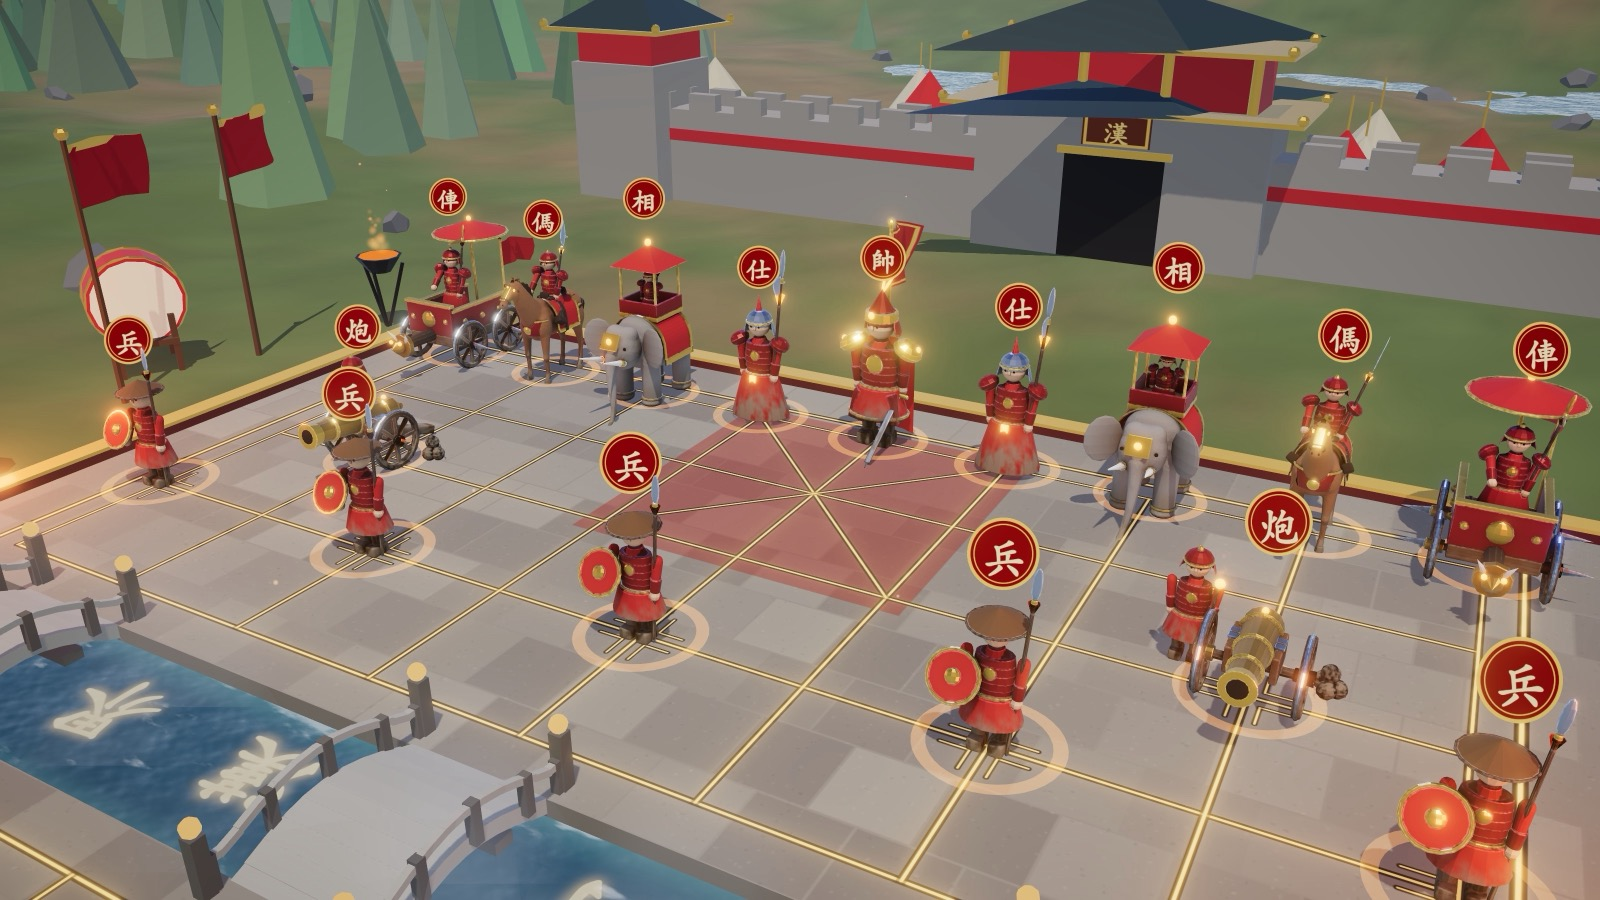
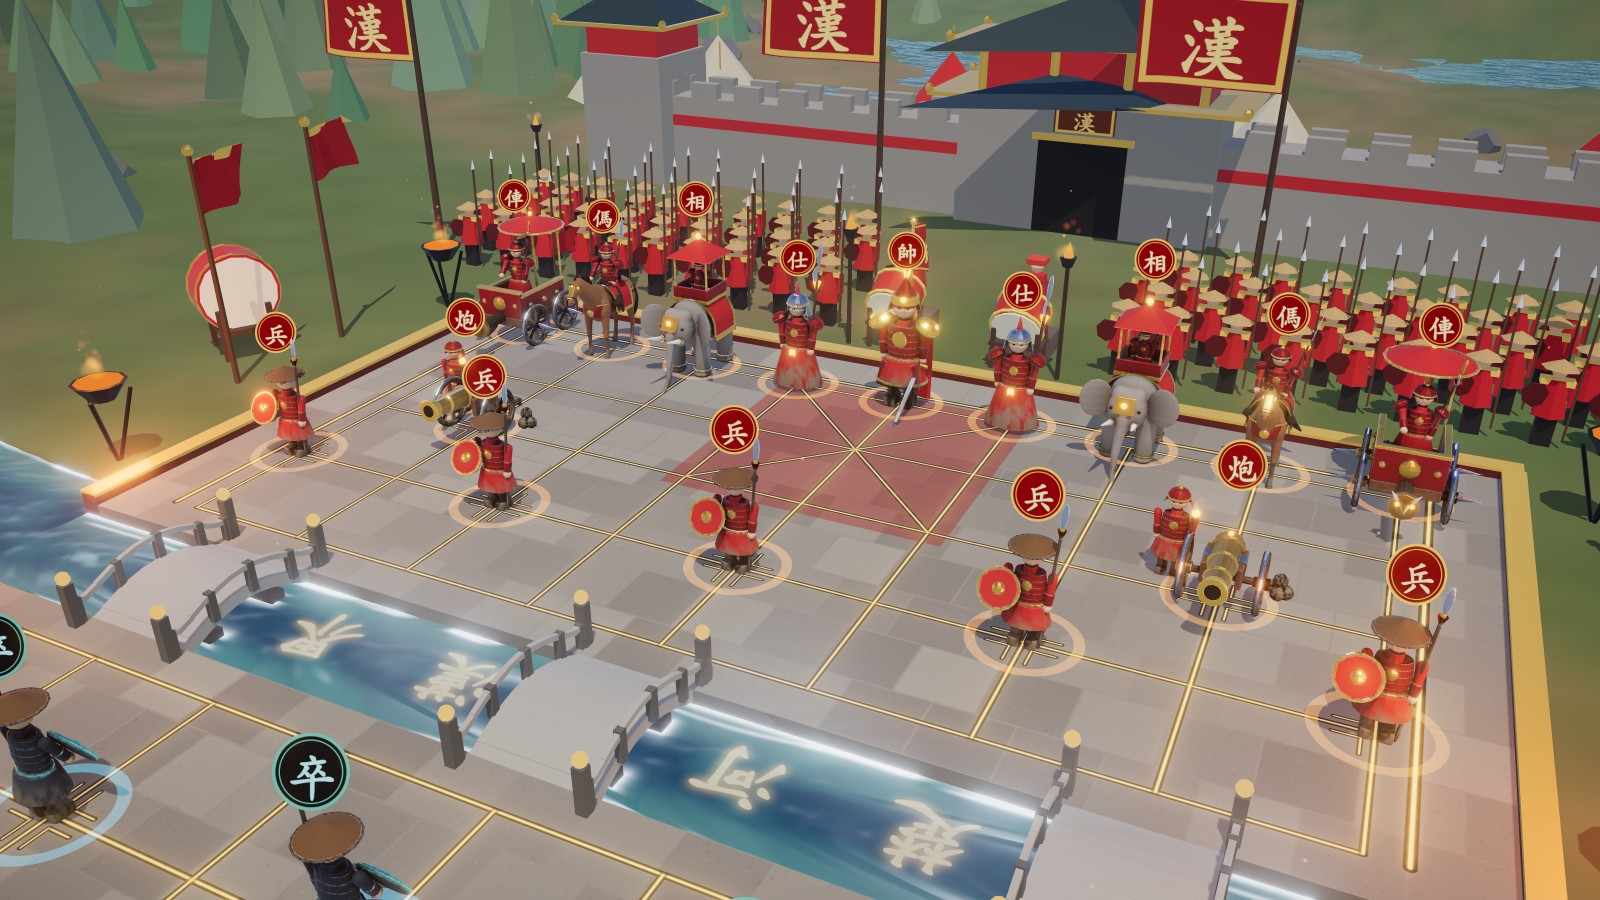
README: new gallery with the river and the reserves; grouped highlights
Re-shoot the gallery on the current build, group the highlights into
the battle, the game, and replay and share, order the file table by
layer and trim the debug hook listing. Ignore agent worktrees.

diff --git a/README.md b/README.md
@@ -31,12 +31,12 @@ the seven unit models are generated by a Blender script that ships in this repos
 
 <table>
   <tr>
-    <td width="50%"><img src="docs/shots/army-red.jpg" alt="The red army drawn up at noon"></td>
-    <td width="50%"><img src="docs/shots/army-black.jpg" alt="The black army drawn up at noon"></td>
+    <td width="50%"><img src="docs/shots/army-red.jpg" alt="The red army and its reserves before the gate"></td>
+    <td width="50%"><img src="docs/shots/army-black.jpg" alt="The black army and its reserves before the gate"></td>
   </tr>
   <tr>
-    <td width="50%"><img src="docs/shots/crush.jpg" alt="A war elephant comes down on a chariot"></td>
-    <td width="50%"><img src="docs/shots/fallen.jpg" alt="A soldier falls: a pillar of light and his glyph rising"></td>
+    <td width="50%"><img src="docs/shots/crush.jpg" alt="A war elephant rears over a chariot"></td>
+    <td width="50%"><img src="docs/shots/ford.jpg" alt="A chariot fords the river, axle-deep"></td>
   </tr>
   <tr>
     <td colspan="2"><img src="docs/shots/storm.jpg" alt="A check brings storm clouds, lightning and rain"></td>
@@ -45,53 +45,58 @@ the seven unit models are generated by a Blender script that ships in this repos
 
 ## Highlights
 
-- **Full rules.** Hobbled horses, blocked elephant eyes, cannon screens, palace limits, the river, the
-  flying general, no moving into check. Checkmate and stalemate both lose. Threefold repetition is a
-  draw unless one side repeats only by checking (that side loses); 120 plies without a capture is a
-  draw. Undo, restart, a move list in traditional notation and captured-piece trays.
-- **Three modes.** Two players, red against the computer, or spectate. The AI is an iterative-deepening
-  alpha-beta search with a transposition table, quiescence, killer and history ordering, running in a
-  Web Worker so the picture never stalls while it thinks.
-- **Play a friend online.** Peer to peer over WebRTC, with no game server: send an invite link, paste
-  back the reply code, play. Each side checks every move the other sends against its own rules
-  engine. Draw offers, take-backs, resignation, rematches with colours swapped, and a fresh invite
-  resumes a game after a dropped connection.
-- **Openings and styles.** A small book of mainstream openings (中炮 against 屏风马, 顺炮, 列炮 and
-  反宫马; 飞相局, 仙人指路, 起马局, 过宫炮), mirrored, answered instantly and announced by name.
-  Each computer side plays 均衡, 猛攻 or 稳健: its own evaluation terms, draw contempt and taste in
-  openings. Spectator games pair two styles at random.
-- **Commentary.** A short line on notable moments, judged from the search: a sacrifice it likes,
-  a turn of fortune, a clear edge, a level trade, a mate found (三步之内，胜负已分).
+### The battle
+
 - **Seven troop types.** General, guard, war elephant, cavalry, war wagon, cannon and infantry, each
   with its own way of moving, bracing, attacking and dying.
-- **Duels.** Every attacker has three techniques, chosen by whether it is fighting foot soldiers, beasts
-  or machines (21 in total). Each of the 36 legal attacker/victim pairings has its own title card.
-- **Capture cinematics.** Letterbox, close-up camera that follows the victim, hit-stop, bullet-time
-  orbit, an impact frame with speed lines, screen shake and tilt-shift blur.
-- **A battlefield that remembers.** Craters, soot, cracks, hoof prints and wheel ruts accumulate;
-  wreckage stays where it lands, weapons stick in the ground, blast sites smoulder, and the armies get
-  dustier as the game goes on. Undo rolls all of it back.
+- **Duels.** Every attacker has three techniques, chosen by whether it is fighting foot soldiers,
+  beasts or machines (21 in total). Each of the 36 attacker and victim pairings has its own title card.
+- **Capture cinematics.** Letterbox, a close-up camera that follows the victim, hit-stop, a
+  bullet-time orbit, an impact frame with speed lines, screen shake and tilt-shift blur.
+- **A battlefield that remembers.** Craters, soot, cracks, hoof prints and wheel ruts accumulate.
+  Wreckage stays where it lands, blast sites smoulder, and the armies get dustier as the game goes
+  on. Undo rolls all of it back.
 - **A river you can wade.** 楚河漢界 is real water: it flows, darkens in the deep channel, foams at
-  the banks and round the bridge piers, glitters at noon and turns choppy in a storm. Troops crossing
-  off the bridges wade in, slowed and splashing, soldiers thigh-deep and horses to the belly, and
-  bodies thrown into it go under with a splash.
-- **Armies that watch.** Behind each back rank wait the reserves: ranks of spearmen, war drums and
-  great banners. They cheer a capture with a drum roll, beat the drums through a check and erupt
-  at the mate. Morale follows the material on the board: a losing army thins, stoops and lowers its
-  banners while its torches gutter; at the end it kneels or breaks for the gate.
-- **Weather driven by the game.** Dawn mist at the opening, noon in the middlegame, a red dusk in the
-  endgame. A check brings storm clouds and lightning; the end of the game brings rain and wet stone.
-- **Replay and share.** Every game is a compact record (about one character per move). Copy it as
-  a link or as text; opening the link replays the game. Step, scrub, or play it back at 1×, 2× or
-  4×, duels included.
-- **Highlight reel.** Every move is scored (captures by value, checks, exchanges, sacrifices, king
-  hunts, the mate) and the best moments are cut into a reel of about a minute, each with a title
-  card and the full duel camera. Export it as an MP4 or WebM video, sound included.
-- **Classic games, restaged.** Seven lines from the Ming and Qing manuals 橘中秘 (1632) and
-  梅花譜, among them 棄馬十三著, play themselves with each move named as it lands. Each is the
-  manual's text in the traditional notation, read by a parser for it, with its sources cited.
+  the banks, glitters at noon and turns choppy in a storm. Troops crossing off the bridges wade in,
+  slowed and splashing.
+- **Armies that watch.** Behind each back rank wait the reserves: spearmen, war drums and great
+  banners. They cheer a capture, drum through a check and erupt at the mate. A losing army thins,
+  stoops and lowers its banners.
+- **Weather driven by the game.** Dawn mist at the opening, noon in the middlegame, a red dusk in
+  the endgame. A check brings storm clouds and lightning; the end brings rain and wet stone.
 - **Sound without samples.** Every effect is synthesised with WebAudio, and an adaptive score of war
   drums, plucked zither and a low ostinato layers up with the tension.
+
+### The game
+
+- **Full rules.** Hobbled horses, blocked elephant eyes, cannon screens, palace limits, the river,
+  the flying general, no moving into check. Checkmate and stalemate both lose. Threefold repetition
+  is a draw unless one side repeats only by checking (that side loses); 120 plies without a capture
+  is a draw.
+- **Three modes.** Two players, red against the computer, or spectate. The AI is an
+  iterative-deepening alpha-beta search with a transposition table, quiescence, and killer and
+  history ordering, running in a Web Worker so the picture never stalls while it thinks.
+- **Openings and styles.** A small book of mainstream openings, answered instantly and announced by
+  name. Each computer side plays 均衡, 猛攻 or 稳健, with its own evaluation, draw contempt and
+  taste in openings.
+- **Commentary.** A short line on notable moments, judged from the search: a sacrifice it likes, a
+  turn of fortune, a mate found (三步之内，胜负已分).
+- **Play a friend online.** Peer to peer over WebRTC, with no game server: send an invite link,
+  paste back the reply code, play. Each side checks every move the other sends against its own
+  rules engine.
+- **Phones too.** Touch gestures, layouts for portrait and landscape, and three quality tiers
+  picked from the device.
+
+### Replay and share
+
+- **Records and links.** Every game is a compact record, about one character per move. Copy it as a
+  link or as text; opening the link replays the game. Step, scrub, or play it back at 1×, 2× or 4×.
+- **Highlight reel.** Every move is scored and the best moments are cut into a reel of about a
+  minute, each with a title card and the full duel camera. Export it as an MP4 or WebM video, sound
+  included.
+- **Classic games, restaged.** Seven lines from the Ming and Qing manuals 橘中秘 (1632) and 梅花譜,
+  among them 棄馬十三著, play themselves with each move named as it lands. Their sources are cited
+  in the code.
 
 ## Run it
 
@@ -158,7 +163,7 @@ In a game 悔棋 asks the opponent to take back your last move and 新局 opens 
 either player can open the card and 续弈此局 to invite the other back into the same position.
 Replay, the reel and the classics are off during an online game; leave it to use them.
 
-Honest limits: the peers connect directly, so each sees the other's IP address, and a public STUN
+Limits: the peers connect directly, so each sees the other's IP address, and a public STUN
 server (Google's and Cloudflare's) is asked for your public address. There is no TURN
 relay, so two players behind symmetric NATs (some mobile and office networks) cannot connect.
 
@@ -167,35 +172,32 @@ relay, so two players behind symmetric NATs (some mobile and office networks) ca
 | File | Purpose |
 | --- | --- |
 | `src/engine.ts` | Pure rules engine, no rendering dependencies |
+| `src/ai.ts`, `src/ai.worker.ts` | Search engine and playing styles; its worker entry |
+| `src/book.ts` | Opening book, compiled to position hashes, and opening names |
+| `src/commentary.ts` | When an AI move is worth a remark, and the lines |
 | `src/record.ts` | Game records: compact link form, readable text, validation |
-| `src/netgame.ts` | Online protocol: validation, resync, offers, rematch (pure, tested) |
-| `src/sdp.ts` | Invite and reply codes: SDP packed to ~110 URL-safe characters |
-| `src/net.ts` | WebRTC transport: one data channel, manual signalling, STUN |
-| `src/online.ts` | The 联机 card, connection chip, prompts, session lifecycle |
 | `src/notation.ts` | Traditional move notation (炮二平五) read back into moves |
 | `src/classics.ts` | Classic games from 橘中秘 and 梅花譜, with their sources |
 | `src/reel.ts` | Move scoring and clip selection for the highlight reel |
 | `src/capture.ts` | Canvas and audio recording of the reel, with burned-in titles |
-| `src/ai.ts`, `src/ai.worker.ts` | Search engine and playing styles; its worker entry |
-| `src/book.ts` | Opening book, compiled to position hashes, and opening names |
-| `src/commentary.ts` | When an AI move is worth a remark, and the lines |
-| `tools/match.ts` | Style against balanced, self-play match (slow, not in `npm test`) |
+| `src/netgame.ts` | Online protocol: validation, resync, offers, rematch |
+| `src/sdp.ts` | Invite and reply codes: SDP packed to ~110 URL-safe characters |
+| `src/net.ts`, `src/online.ts` | WebRTC transport; the 联机 card and session lifecycle |
 | `src/core.ts` | Game clock, tweens, easing, board ↔ world mapping |
-| `src/world.ts` | Terrain, water, sky, board terraces, props, lighting, weather |
-| `src/units.ts` | Unit wrapper, procedural fallback models, bindings for authored models |
-| `src/models.ts` | Loader and skeleton rebuild for authored models |
-| `src/choreo.ts` | Move / brace / attack / death choreography and the duel title table |
+| `src/world.ts` | Terrain, sky, board terraces, props, lighting, weather |
 | `src/river.ts` | Water shader, ripple rings, wading splashes |
 | `src/armies.ts`, `src/morale.ts` | Reserves, drums, banners; morale from material |
-| `src/fx.ts` | Particles, shockwaves, slashes, light pillars, debris |
-| `src/scars.ts` | Persistent decals, wreckage and smouldering craters |
-| `src/camera.ts` | Camera director: orbit, auto-rotate, cinematics, spectator mode, shake |
+| `src/units.ts`, `src/models.ts` | Units; loader and skeleton rebuild for authored models |
+| `src/choreo.ts` | Move, brace, attack and death choreography; the duel title table |
+| `src/fx.ts`, `src/scars.ts` | Particles, debris, light pillars; persistent battlefield damage |
+| `src/camera.ts` | Camera director: orbit, touch, cinematics, spectator mode |
 | `src/audio.ts`, `src/music.ts` | Synthesised effects, rain and thunder; adaptive score |
+| `src/quality.ts` | Quality tiers, first-load choice, switching |
 | `src/hud.ts`, `src/style.css` | DOM overlay |
 | `src/main.ts` | Renderer, post-processing, input, game flow |
-| `src/quality.ts` | Quality tiers, first-load choice, switching |
 | `tools/blender/build.py` | Generates the seven unit models |
 | `tools/blender/lod.mjs` | Decimated `_mid` / `_lo` variants for the lower tiers |
+| `tools/match.ts` | Self-play match between styles (slow, not in `npm test`) |
 
 The post chain is MSAA → bloom → a grading pass (tilt-shift, chromatic fringe, impact frame,
 desaturation, vignette) → ACES tone mapping.
@@ -206,32 +208,21 @@ For scripted testing, `window.__game` exposes a small debug hook:
 __game.load(fen)                   // set up a position
 __game.move('h2e2')                // resolves when the animation ends
 __game.setMode('watch')            // 'pvp' | 'pve' | 'watch'
-__game.style('b', 'aggressive')    // 'balanced' | 'aggressive' | 'solid'; style() reads both
-__game.book()                      // book moves here: { move, weight, names }
-__game.state.ai                    // last AI move: { score, depth, book, opening, ... }
+__game.style('b', 'aggressive')    // 'balanced' | 'aggressive' | 'solid'
 __game.weather(time, storm, rain)  // pin the weather; no arguments releases it
-__game.morale()                    // { r, b } in 0..1, from the material on the board
-__game.cheer('r')                  // make one side's reserves cheer
-__game.armies                      // the reserves module, for inspection
 __game.record()                    // compact record of the game, as in #g= links
 __game.replay(text?)               // replay a record, or the current game
-__game.replayTo(ply)               // jump to a ply; replayExit() leaves
-__game.classics()                  // titles of the classic games
-__game.classic(i)                  // replay one: title card, autoplay, captions
-__game.highlights()                // clips of the game: { ply, start, end, reason, ... }
-__game.reel()                      // play the highlight reel; reelExit() leaves
+__game.classic(i)                  // replay a classic game
+__game.reel()                      // play the highlight reel
 await __game.reelExport()          // record it: { size, mime, durationMs, ... }
-__game.fine(false)                 // switch to the code-built models
-await __game.quality('low')        // 'low' | 'mid' | 'high'; no argument returns the tier
+await __game.quality('low')        // 'low' | 'mid' | 'high'
 await __game.net.host('r')         // open a room: resolves to the invite link
-await __game.net.join(invite)      // resolves to the reply code
-await __game.net.accept(reply)     // the host connects
-__game.net.state                   // { phase, role, side, connected, latency, ply, ... }
-__game.net.send(obj)               // raw message to the peer (for abuse tests)
-__game.net.leave()                 // close the connection and leave net mode
 __game.manual = true               // stop the frame loop, then step it yourself
 await __game.advance(seconds)
 ```
+
+The rest of the hook (`state`, `book`, `morale`, `highlights`, `net.join`, `net.accept` and more)
+is at the bottom of `src/main.ts`.
 
 ### Unit models
 
@@ -267,6 +258,8 @@ about 335k for a full board.
 - Spectator games are capped at 220 plies so two evenly matched engines cannot shuffle forever.
 - Online play has no relay server: symmetric NATs on both sides cannot connect.
 - Online play has been tested in Chromium only, between two tabs on one machine.
+- Video export has been tested in Chromium only.
+- Touch controls and the lower quality tiers have not been run on a real phone.
 
 ## License
 
